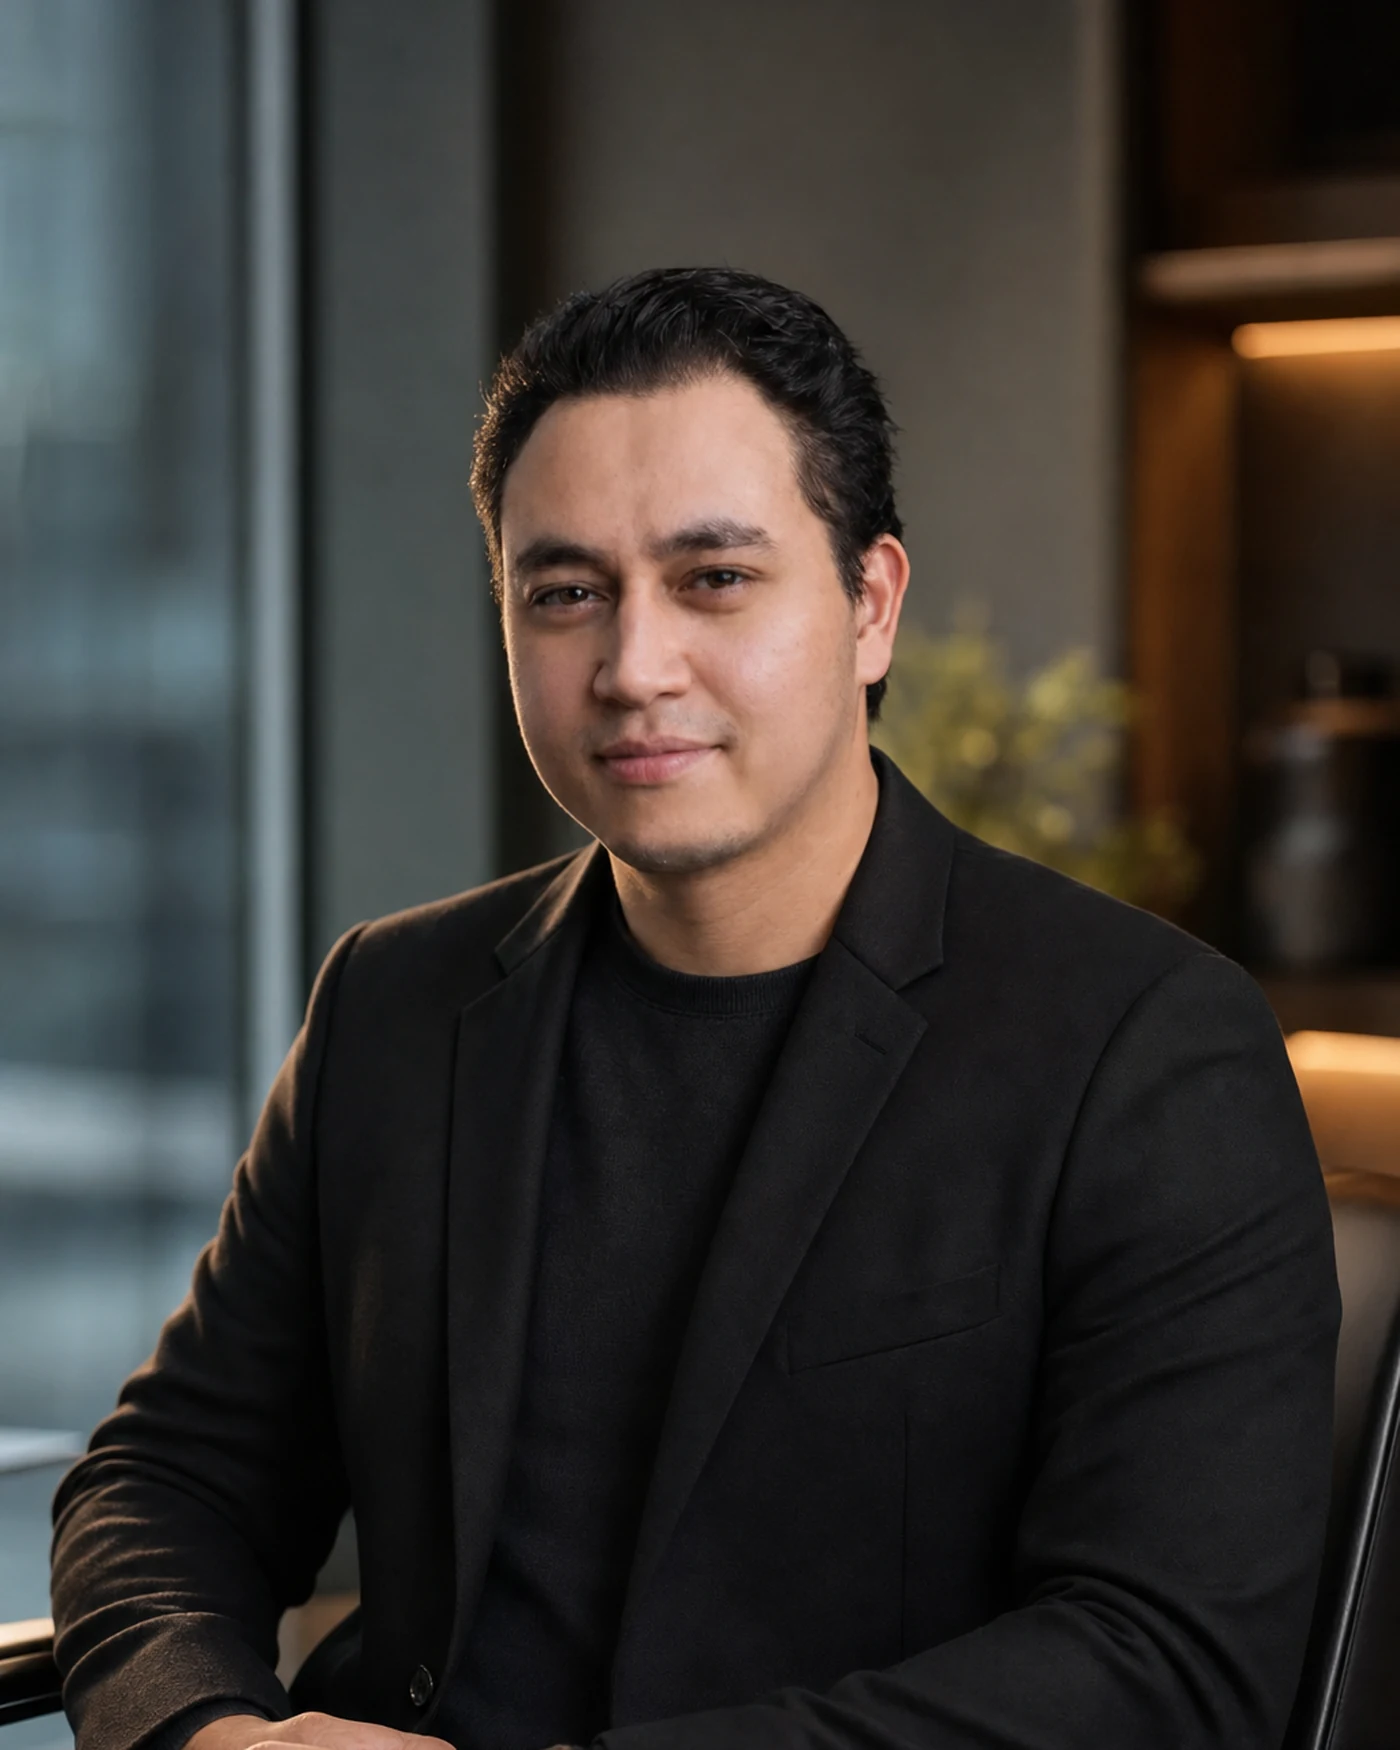
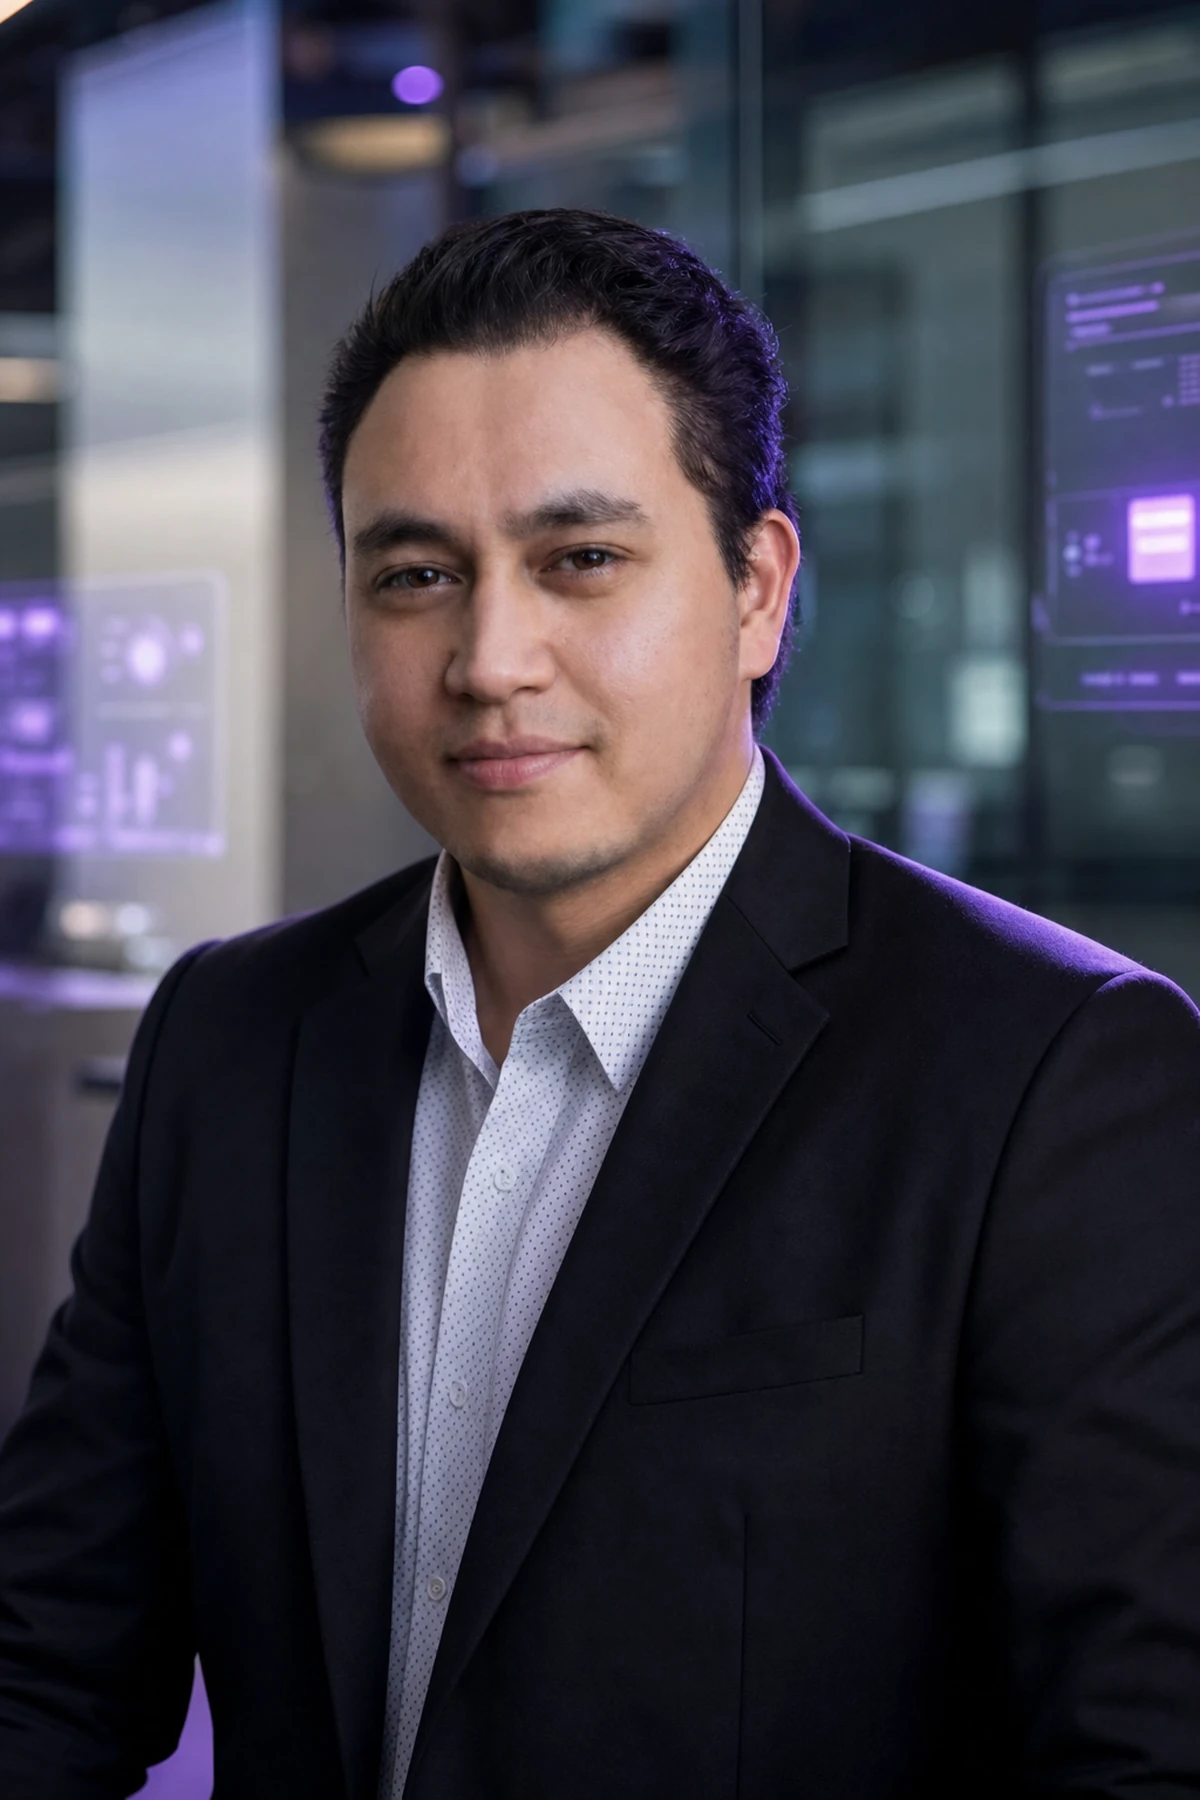
Upgrade Leadership section with living founder portrait and premium editorial manifest panel.

diff --git a/src/components/company-story/CompanyStoryExperience.tsx b/src/components/company-story/CompanyStoryExperience.tsx
@@ -1122,116 +1122,123 @@ function LeadershipStatement({ image }: { image: string }) {
     ];
 
     return (
-        <div className="relative mt-16 md:mt-24">
-            {/* Ambient Background Glow */}
-            <motion.div
-                animate={{
-                    backgroundPosition: ['0% 0%', '100% 100%', '0% 0%'],
-                }}
-                transition={{ duration: 15, ease: 'linear', repeat: Infinity }}
-                className="pointer-events-none absolute -left-20 top-0 h-[600px] w-[600px] rounded-full opacity-30 blur-[120px]"
-                style={{
-                    background: 'linear-gradient(45deg, rgba(86,0,227,0.15), rgba(155,77,255,0.1), rgba(255,77,155,0.05), rgba(86,0,227,0.15))',
-                    backgroundSize: '400% 400%',
-                }}
-                aria-hidden
-            />
+        <motion.div
+            className="relative mt-10 md:mt-14"
+            initial={{ opacity: 0, y: 24 }}
+            whileInView={{ opacity: 1, y: 0 }}
+            viewport={{ once: true, margin: '-80px' }}
+            transition={{ duration: 0.85, ease: EASE_OUT }}
+        >
+            <div className="pointer-events-none absolute -inset-x-8 -top-12 bottom-0 -z-10" aria-hidden>
+                <div className="absolute left-[6%] top-[10%] h-80 w-80 rounded-full bg-[radial-gradient(circle,rgba(155,77,255,0.14),transparent_68%)] blur-3xl" />
+                <div className="absolute right-[4%] bottom-[8%] h-72 w-72 rounded-full bg-[radial-gradient(circle,rgba(86,0,227,0.1),transparent_70%)] blur-3xl" />
+            </div>
 
-            <div className="grid grid-cols-1 gap-12 lg:grid-cols-[0.9fr_1.1fr] lg:items-center lg:gap-16 xl:gap-24">
-                <motion.div
-                    className="relative"
-                    initial={{ opacity: 0, y: 30 }}
-                    whileInView={{ opacity: 1, y: 0 }}
-                    viewport={{ once: true, margin: '-100px' }}
-                    transition={{ duration: 1, ease: EASE_OUT }}
-                >
-                    <div className="relative mx-auto max-w-[480px] lg:mx-0 lg:max-w-none group">
-                        {/* The Living Frame */}
-                        <div className="relative rounded-[2.2rem] bg-white/10 p-[3px] backdrop-blur-2xl md:rounded-[2.7rem] shadow-[0_0_0_1px_rgba(255,255,255,0.2)_inset,0_32px_80px_-24px_rgba(15,23,42,0.3)]">
-                            
-                            {/* Animated Gradient Border using Framer Motion */}
-                            <div className="absolute inset-0 overflow-hidden rounded-[2.2rem] md:rounded-[2.7rem]">
+            <div className="overflow-hidden rounded-[1.75rem] border border-slate-200/70 bg-[linear-gradient(155deg,#ffffff_0%,#faf7f2_42%,#f3ede4_100%)] shadow-[0_36px_90px_-40px_rgba(86,0,227,0.28)] md:rounded-[2.1rem]">
+                <div className="pointer-events-none absolute inset-0 opacity-[0.35] bg-[radial-gradient(circle_at_top_right,rgba(155,77,255,0.08),transparent_42%)]" aria-hidden />
+
+                <div className="relative grid grid-cols-1 lg:grid-cols-[0.88fr_1.12fr]">
+                    <div className="relative border-b border-slate-200/60 p-5 md:p-7 lg:border-b-0 lg:border-r lg:p-8">
+                        <div className="relative mx-auto max-w-[420px] lg:mx-0 lg:max-w-none">
+                            <div className="group relative">
                                 <motion.div
-                                    animate={{ rotate: 360 }}
-                                    transition={{ duration: 8, repeat: Infinity, ease: 'linear' }}
-                                    className="absolute left-1/2 top-1/2 aspect-square w-[150%] -translate-x-1/2 -translate-y-1/2 bg-[conic-gradient(from_0deg,transparent_0deg,transparent_120deg,rgba(155,77,255,0.8)_180deg,transparent_240deg)]"
+                                    animate={{ opacity: [0.35, 0.6, 0.35], scale: [1, 1.05, 1] }}
+                                    transition={{ duration: 9, repeat: Infinity, ease: 'easeInOut' }}
+                                    className="pointer-events-none absolute -inset-4 rounded-[2rem] bg-[radial-gradient(circle_at_30%_20%,rgba(155,77,255,0.22),transparent_62%)] blur-2xl"
+                                    aria-hidden
                                 />
-                                {/* Inner mask to hollow out the rotating gradient */}
-                                <div className="absolute inset-[3px] rounded-[2.1rem] bg-[#fdfaf5] md:rounded-[2.6rem]" />
-                            </div>
 
-                            {/* Inner Image Wrapper */}
-                            <div className="relative aspect-[4/5] overflow-hidden rounded-[2.05rem] md:rounded-[2.55rem] bg-slate-900 shadow-[inset_0_0_0_1px_rgba(15,23,42,0.08)] m-[3px]">
-                                <StoryImage
-                                    image={image}
-                                    alt="Raffy, Ukonnect leadership"
-                                    focal="center 30%"
-                                    eager
-                                    className="h-full w-full object-cover transition-transform duration-[1500ms] group-hover:scale-[1.04]"
-                                />
-                                {/* Cinematic Overlays inside the image */}
-                                <div className="pointer-events-none absolute inset-0 bg-gradient-to-t from-slate-950/50 via-transparent to-white/10 mix-blend-overlay" />
-                                <div className="pointer-events-none absolute inset-0 opacity-[0.15] bg-[radial-gradient(circle_at_top_right,rgba(255,255,255,0.8),transparent_40%)]" />
-                                <div className="pointer-events-none absolute inset-0 shadow-[inset_0_0_0_1px_rgba(255,255,255,0.2)] rounded-[2rem] md:rounded-[2.5rem]" />
+                                <div className="relative overflow-hidden rounded-[1.5rem] p-[2px] shadow-[0_28px_70px_-28px_rgba(15,23,42,0.35)] md:rounded-[1.85rem]">
+                                    <motion.div
+                                        animate={{ rotate: 360 }}
+                                        transition={{ duration: 20, repeat: Infinity, ease: 'linear' }}
+                                        className="pointer-events-none absolute left-1/2 top-1/2 aspect-square w-[160%] -translate-x-1/2 -translate-y-1/2 bg-[conic-gradient(from_0deg,transparent,rgba(155,77,255,0.55),transparent,rgba(245,230,200,0.45),transparent,rgba(86,0,227,0.5),transparent)]"
+                                        aria-hidden
+                                    />
+                                    <div className="absolute inset-[2px] rounded-[1.45rem] bg-[#fdfaf5] md:rounded-[1.8rem]" />
+
+                                    <div className="relative m-[2px] aspect-[4/5] overflow-hidden rounded-[1.4rem] bg-slate-900 md:rounded-[1.75rem]">
+                                        <StoryImage
+                                            image={image}
+                                            alt="Raffy, Ukonnect leadership"
+                                            focal="center 28%"
+                                            eager
+                                            zoom
+                                            className="h-full w-full object-cover"
+                                        />
+                                        <div className="pointer-events-none absolute inset-0 bg-gradient-to-t from-slate-950/55 via-transparent to-white/10" />
+                                        <div className="pointer-events-none absolute inset-0 bg-gradient-to-r from-primary/10 via-transparent to-[#9b4dff]/10" />
+                                        <motion.div
+                                            animate={{ y: ['-120%', '220%'] }}
+                                            transition={{ duration: 6, repeat: Infinity, ease: 'linear' }}
+                                            className="pointer-events-none absolute inset-x-0 h-20 bg-[linear-gradient(180deg,transparent,rgba(255,255,255,0.12),transparent)] opacity-40"
+                                            aria-hidden
+                                        />
+                                    </div>
+                                </div>
+
+                                <motion.div
+                                    className="absolute -bottom-5 left-4 right-4 rounded-[1rem] border border-white/70 bg-white/88 px-5 py-3.5 shadow-[0_18px_40px_-18px_rgba(15,23,42,0.2)] backdrop-blur-xl md:-bottom-6 md:left-6 md:right-6 md:px-6 md:py-4"
+                                    initial={{ opacity: 0, y: 14 }}
+                                    whileInView={{ opacity: 1, y: 0 }}
+                                    viewport={{ once: true }}
+                                    transition={{ duration: 0.7, delay: 0.15, ease: EASE_OUT }}
+                                >
+                                    <div className="flex items-center justify-between gap-3">
+                                        <div>
+                                            <p className="font-mono text-[8px] tracking-[0.3em] text-primary/55">FOUNDER</p>
+                                            <p className="mt-1 text-[19px] font-bold tracking-[-0.03em] text-slate-900 md:text-[22px]">Raffy</p>
+                                        </div>
+                                        <div className="text-right">
+                                            <p className="font-mono text-[8px] tracking-[0.22em] text-slate-400">UKONNECT</p>
+                                            <p className="mt-1 text-[11px] text-slate-500">Strategy · Systems · Growth</p>
+                                        </div>
+                                    </div>
+                                </motion.div>
                             </div>
                         </div>
-
-                        {/* Floating Nameplate */}
-                        <motion.div 
-                            className="absolute -bottom-6 -right-2 md:-bottom-8 md:-right-8 rounded-[1.25rem] border border-white/60 bg-white/85 px-6 py-4 shadow-[0_20px_40px_-15px_rgba(15,23,42,0.15)] backdrop-blur-xl md:px-8 md:py-5 z-20"
-                            initial={{ opacity: 0, y: 20 }}
-                            whileInView={{ opacity: 1, y: 0 }}
-                            viewport={{ once: true, margin: '-50px' }}
-                            transition={{ duration: 0.8, delay: 0.2, ease: EASE_OUT }}
-                        >
-                            <p className="font-mono text-[9px] font-semibold tracking-[0.35em] text-primary/60 md:text-[10px]">LEADERSHIP</p>
-                            <p className="mt-1.5 text-[20px] font-bold tracking-[-0.03em] text-slate-900 md:text-[24px]">Raffy</p>
-                            <p className="mt-1 text-[13px] text-slate-500 md:text-[14px]">Strategy · Systems · Growth</p>
-                        </motion.div>
                     </div>
-                </motion.div>
 
-                <div className="relative">
-                    <div className="relative z-10 lg:pl-4 xl:pl-8">
-                        <Reveal>
-                            <div className="flex items-center gap-4">
-                                <span className="h-px w-8 bg-gradient-to-r from-primary/50 to-transparent md:w-12" />
-                                <p className="font-mono text-[10px] font-medium tracking-[0.36em] text-primary/60 md:text-[11px]">FOUNDER STATEMENT</p>
-                            </div>
-                        </Reveal>
+                    <div className="flex flex-col justify-center p-6 md:p-8 lg:p-10 xl:p-12">
+                        <p className="font-mono text-[9px] tracking-[0.34em] text-primary/55 md:text-[10px]">FOUNDER STATEMENT</p>
 
-                        <Reveal delay={0.1}>
-                            <h3 className="mt-8 max-w-[15ch] text-[36px] font-bold leading-[0.96] tracking-[-0.03em] text-slate-900 sm:text-[44px] md:mt-10 md:text-[54px] lg:text-[60px] xl:text-[68px]">
-                                We build long-term systems,
-                                <span className="block text-transparent bg-clip-text bg-gradient-to-r from-[#5600e3] to-[#9b4dff]">
-                                    not short-term hype.
-                                </span>
-                            </h3>
-                        </Reveal>
+                        <h3 className="mt-5 max-w-[13ch] text-[34px] font-bold leading-[0.95] tracking-[-0.04em] text-slate-900 sm:text-[42px] md:mt-6 md:text-[50px] lg:text-[56px]">
+                            We build long-term systems,
+                            <span className="mt-1 block text-transparent bg-clip-text bg-gradient-to-r from-[#5600e3] via-[#7c3aed] to-[#9b4dff]">
+                                not short-term hype.
+                            </span>
+                        </h3>
 
-                        <Reveal delay={0.18}>
-                            <div className="relative mt-10 md:mt-14">
-                                <div className="absolute -left-4 -top-6 text-[100px] leading-none text-slate-200/60 font-serif md:-left-8 md:-top-8 md:text-[140px]" aria-hidden>“</div>
-                                <blockquote className="relative z-10 max-w-[28ch] text-[20px] font-medium leading-[1.4] tracking-[-0.015em] text-slate-600 sm:text-[24px] md:text-[28px] lg:text-[32px]">
-                                    Turn AI into a reliable growth advantage for real businesses — with clarity, craftsmanship, and accountability.
-                                </blockquote>
-                            </div>
-                        </Reveal>
+                        <div className="relative mt-8 md:mt-10">
+                            <span className="absolute -left-1 -top-5 font-serif text-[72px] leading-none text-slate-200/70 md:-top-7 md:text-[96px]" aria-hidden>
+                                &ldquo;
+                            </span>
+                            <blockquote className="relative z-10 max-w-[30ch] text-[18px] font-medium leading-[1.45] tracking-[-0.02em] text-slate-600 sm:text-[20px] md:text-[24px] lg:text-[26px]">
+                                Turn AI into a reliable growth advantage for real businesses — with clarity, craftsmanship, and accountability.
+                            </blockquote>
+                            <div className="mt-5 h-px w-16 bg-gradient-to-r from-primary/60 to-transparent" aria-hidden />
+                        </div>
 
-                        <Reveal delay={0.25}>
-                            <div className="mt-12 grid gap-8 border-t border-slate-200/60 pt-8 sm:grid-cols-3 md:mt-16 md:gap-10 md:pt-10">
-                                {pillars.map((pillar, idx) => (
-                                    <div key={pillar.title} className="relative">
-                                        <p className="font-mono text-[10px] font-medium tracking-[0.2em] text-primary/50">0{idx + 1} // {pillar.title.toUpperCase()}</p>
-                                        <p className="mt-3 text-[13.5px] leading-[1.7] text-slate-500 md:text-[14.5px]">{pillar.body}</p>
-                                    </div>
-                                ))}
-                            </div>
-                        </Reveal>
+                        <div className="mt-8 grid gap-3 sm:grid-cols-3 md:mt-10">
+                            {pillars.map((pillar, idx) => (
+                                <motion.div
+                                    key={pillar.title}
+                                    className="group rounded-[1rem] border border-slate-200/70 bg-white/65 p-4 backdrop-blur-sm transition-all duration-500 hover:border-primary/25 hover:bg-white/90 hover:shadow-[0_14px_36px_-20px_rgba(86,0,227,0.25)]"
+                                    initial={{ opacity: 0, y: 12 }}
+                                    whileInView={{ opacity: 1, y: 0 }}
+                                    viewport={{ once: true, margin: '-40px' }}
+                                    transition={{ duration: 0.55, delay: 0.1 + idx * 0.08, ease: EASE_OUT }}
+                                    whileHover={{ y: -2 }}
+                                >
+                                    <p className="font-mono text-[9px] tracking-[0.22em] text-primary/50">0{pillar.kicker} // {pillar.title.toUpperCase()}</p>
+                                    <p className="mt-2.5 text-[12.5px] leading-[1.65] text-slate-500 md:text-[13px]">{pillar.body}</p>
+                                </motion.div>
+                            ))}
+                        </div>
                     </div>
                 </div>
             </div>
-        </div>
+        </motion.div>
     );
 }
 
@@ -1564,7 +1571,7 @@ export function CompanyStoryExperience() {
                         index="05 / 05"
                         eyebrow="Leadership"
                         title="Built to outlast trends."
-                        subtitle="A founder statement with portrait weight — strategy led from inside the studio."
+                        subtitle="A founder manifest inside one editorial panel — portrait, conviction, and operating pillars."
                     />
                     <LeadershipStatement image={assets.founder} />
                 </div>
